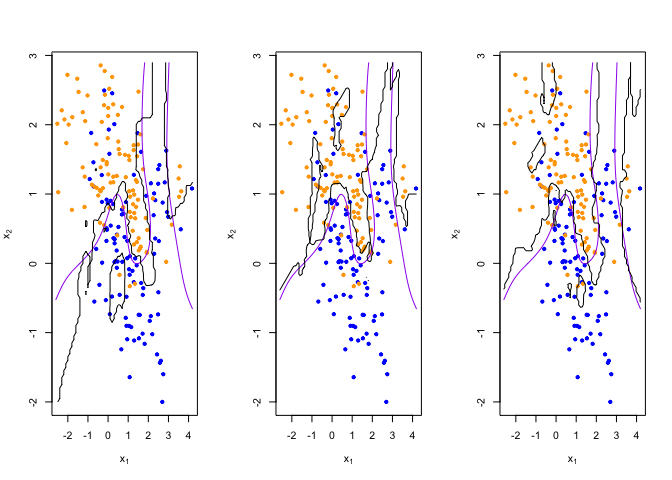
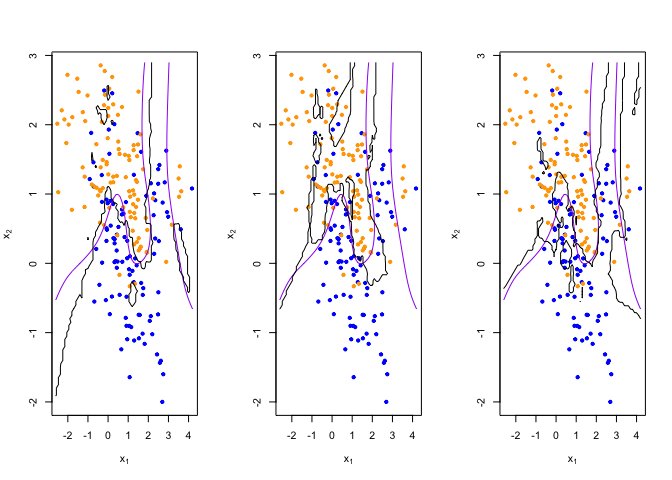
modify hw1

diff --git a/Homework1/Homework1.md b/Homework1/Homework1.md
@@ -1,7 +1,7 @@
 Homework 1
 ================
 YutingMei
-January 27, 2022
+February 01, 2022
 
 -   Read the help file for R’s built-in linear regression function lm
 
@@ -286,10 +286,16 @@ for(b in 1:3) {
 }
 ```
 
-![](Homework1_files/figure-gfm/unnamed-chunk-15-1.png)<!-- --> \*
+![](Homework1_files/figure-gfm/unnamed-chunk-15-1.png)<!-- --> <br> \*
 Describe how this more flexible model affects the bias-variance tradeoff
-<br> - From the figure below, the variance of new model become larger,
-the bias become smaller
+<br> The expected squared error(or MSE) of an estimator *θ̂* with respect
+to an unknown parameter *θ* is defined as <br>
+*M**S**E* = *E*<sub>*θ*</sub>\[(*θ̂* − *θ*)<sup>2</sup>\] = *E*<sub>*θ*</sub>\[(*θ̂* − *E*<sub>*θ*</sub>\[*θ̂*\])<sup>2</sup>\] + (*E*<sub>*θ*</sub>\[*θ̂*\] − *θ*)<sup>2</sup> = *V**a**r*<sub>*θ*</sub>(*θ̂*) + *B**i**a**s**e*<sub>*θ*</sub>(*θ̂*, *θ*)<sup>2</sup>
+<br> From the figure below, the variance of new model become larger, the
+bias become smaller. This is because the model become more flexible, so
+the border(or the hyperplane) that seperate the space become more rough
+and the variance of the *θ̂* become larger, the variance of the MSE will
+become larger.
 
 ``` r
 ## plot the new linear classifier for three bootstraps
